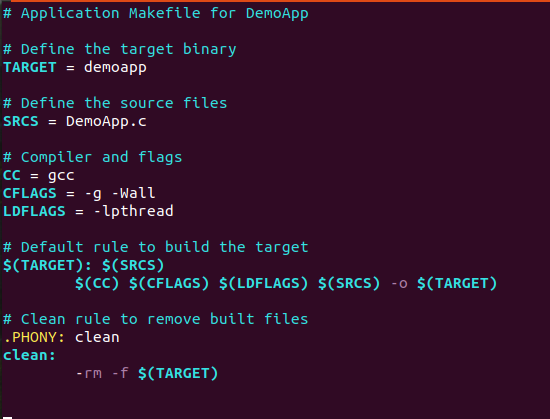
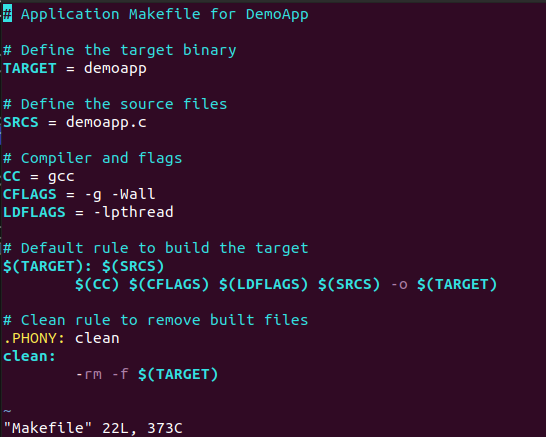
buildroot

diff --git a/Embedded_Linux/Auto_Build_Tools/Buildroot/README.md b/Embedded_Linux/Auto_Build_Tools/Buildroot/README.md
@@ -120,7 +120,7 @@ To compile `DemoApp`, create a Makefile that defines how to build the applicatio
 TARGET = demoapp
 
 # Define the source files
-SRCS = DemoApp.c
+SRCS = demoapp.c
 
 # Compiler and flags
 CC = gcc
@@ -129,12 +129,12 @@ LDFLAGS = -lpthread
 
 # Default rule to build the target
 $(TARGET): $(SRCS)
-	$(CC) $(CFLAGS) $(LDFLAGS) $(SRCS) -o $(TARGET)
+        $(CC) $(CFLAGS) $(LDFLAGS) $(SRCS) -o $(TARGET)
 
 # Clean rule to remove built files
 .PHONY: clean
 clean:
-	-rm -f $(TARGET)
+        -rm -f $(TARGET)
 ```
 ![1](images/3.png)
 
@@ -168,16 +168,16 @@ The `demoapp.mk` file contains the build instructions for your package. It defin
 ################################################################################
 
 DEMOAPP_VERSION = 1.0
-DEMOAPP_SITE = $(TOPDIR)/package/demoapp/src
+DEMOAPP_SITE = $(TOPDIR)/package/demoapp
 DEMOAPP_SITE_METHOD = local
 
 # Specify that we are using a custom Makefile
 define DEMOAPP_BUILD_CMDS
-	$(MAKE) -C $(@D) CC="$(TARGET_CC)" CFLAGS="$(TARGET_CFLAGS)" LDFLAGS="$(TARGET_LDFLAGS)"
+        $(MAKE) -C $(DEMOAPP_SITE) CC="$(TARGET_CC)" CFLAGS="$(TARGET_CFLAGS)" LDFLAGS="$(TARGET_LDFLAGS)"
 endef
 
 define DEMOAPP_INSTALL_TARGET_CMDS
-	$(INSTALL) -D -m 0755 $(@D)/demoapp $(TARGET_DIR)/usr/bin/demoapp
+        $(INSTALL) -D -m 0755 $(DEMOAPP_SITE)/demoapp $(TARGET_DIR)/usr/bin/demoapp
 endef
 
 # Register the package with Buildroot
